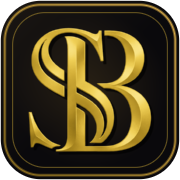
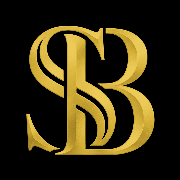
refactor: update branding and PWA assets
Update app logo to legacy gold, adjust branding visuals, and refresh PWA configuration with cache-busting versioning.

diff --git a/App.tsx b/App.tsx
@@ -348,9 +348,9 @@ const fetchUserRole = async (user: FirebaseUser): Promise<'admin' | 'vendor' | '
   return 'client';
 };
 
-const SimchaLogo = ({ className = "h-8 w-8" }: { className?: string; viewBox?: string }) => (
+const SimchaLogo = ({ className = "h-7 w-7" }: { className?: string; viewBox?: string }) => (
   <img
-    src="/sb-logo-transparent-gold.png"
+    src="/sb-logo-old-gold.png"
     alt="Simcha Booking"
     aria-hidden="true"
     className={`simcha-logo-svg block object-contain select-none shrink-0 bg-transparent border-0 shadow-none p-0 ${className}`}
@@ -592,7 +592,7 @@ const AuthSignUpModal: React.FC<AuthSignUpModalProps> = React.memo(({
             className="text-center mb-6 cursor-grab active:cursor-grabbing select-none"
           >
             <div className="flex items-center justify-center mx-auto mb-4">
-              <SimchaLogo className="w-20 h-20 overflow-visible" viewBox="-10 -8 120 110" />
+              <SimchaLogo className="w-14 h-14 overflow-visible" viewBox="-10 -8 120 110" />
             </div>
             <h2 id="auth-signup-title" className="text-2xl sm:text-3xl font-bold font-[Cinzel] text-[#D4AF37] tracking-wider uppercase">
               WELCOME TO SIMCHA SIGN UP
@@ -870,7 +870,7 @@ const AuthSignInModal: React.FC<AuthSignInModalProps> = React.memo(({
             className="text-center mb-6 cursor-grab active:cursor-grabbing select-none"
           >
             <div className="flex items-center justify-center mx-auto mb-4">
-              <SimchaLogo className="w-20 h-20 overflow-visible" viewBox="-10 -8 120 110" />
+              <SimchaLogo className="w-14 h-14 overflow-visible" viewBox="-10 -8 120 110" />
             </div>
             <h2 id="auth-signin-title" className="text-2xl sm:text-3xl font-bold font-[Cinzel] text-[#D4AF37] tracking-wider uppercase">
               WELCOME TO SIMCHA SIGN IN
@@ -4056,7 +4056,7 @@ function App() {
         {/* Centered Welcome Card */}
         <div className="bg-[#111] rounded-3xl p-8 md:p-12 max-w-lg w-full border border-[#D4AF37]/20 shadow-2xl relative z-10 text-center">
           <header className="text-center mb-10">
-            <div className="flex items-center justify-center mx-auto mb-6"><SimchaLogo className="w-20 h-20" /></div>
+            <div className="flex items-center justify-center mx-auto mb-6"><SimchaLogo className="w-14 h-14" /></div>
             <h1 className="text-3xl font-bold font-[Cinzel] text-[#D4AF37] tracking-wider uppercase">WELCOME TO SIMCHA BOOKING</h1>
             <p className="text-[10px] text-zinc-300 uppercase tracking-[0.4em] mt-2">Professional Planning Access</p>
           </header>
@@ -4214,7 +4214,7 @@ function App() {
   if (isInitializing) {
     return (
       <main className="min-h-screen bg-black flex flex-col items-center justify-center" aria-label="Loading Simcha Booking">
-        <SimchaLogo className="w-24 h-24 animate-pulse mb-8" />
+        <SimchaLogo className="w-16 h-16 animate-pulse mb-8" />
         <Loader2 className="w-8 h-8 text-[#D4AF37] animate-spin" />
         <span className="sr-only">Loading application...</span>
       </main>
@@ -4853,8 +4853,8 @@ function App() {
         <div className="max-w-7xl mx-auto px-4 sm:px-6 lg:px-8">
             <div className="flex flex-col md:flex-row justify-between items-center gap-10">
                 <div className="flex flex-col items-center md:items-start gap-4">
-                    <div className="flex items-center gap-3">
-                      <SimchaLogo className="h-10 w-10" /><span className="text-2xl font-bold font-[Cinzel] text-[#D4AF37] tracking-wider leading-tight">Simcha Booking</span>
+                    <div className="flex items-center gap-2.5">
+                      <SimchaLogo className="h-7 w-7 sm:h-8 sm:w-8" /><span className="text-2xl font-bold font-[Cinzel] text-[#D4AF37] tracking-wider leading-tight">Simcha Booking</span>
                     </div>
                     <p className="text-zinc-300 text-sm max-w-xs text-center md:text-left leading-relaxed">Curating exceptional Jewish celebrations with world-class professional partners.</p>
                 </div>
@@ -4944,7 +4944,7 @@ function App() {
                 onClick={() => { setView('marketplace'); setActiveCategory('All'); setIsVendorView(false); }} 
                 aria-label="Simcha Booking Home"
               >
-                  <SimchaLogo className="h-7 w-7 sm:h-8 sm:w-8 group-hover:scale-110 transition-transform" />
+                  <SimchaLogo className="h-7 w-7 sm:h-7 sm:w-7 md:h-8 md:w-8 group-hover:scale-110 transition-transform" />
                   <div className="text-left">
                       <h1 className="simcha-brand-title text-lg sm:text-xl md:text-2xl font-bold text-[#D4AF37] tracking-tight font-[Cinzel] leading-tight md:leading-normal">
                         <span className="block md:inline">Simcha</span><span className="block md:inline md:ml-1.5">Booking</span>

diff --git a/index.html b/index.html
@@ -5,13 +5,13 @@
     <meta charset="UTF-8" />
     <meta name="viewport" content="width=device-width, initial-scale=1.0" />
     <title>Simcha Booking - Plan Your Jewish Event</title>
-    <link id="dynamic-manifest" rel="manifest" href="/manifest.json">
-    <link id="dynamic-favicon" rel="icon" type="image/png" href="/favicon.png">
-    <meta name="theme-color" content="#050505">
+    <link id="dynamic-manifest" rel="manifest" href="/manifest.json?v=3">
+    <link id="dynamic-favicon" rel="icon" type="image/png" href="/favicon.png?v=3">
+    <meta name="theme-color" content="#000000">
     <meta name="apple-mobile-web-app-capable" content="yes">
     <meta name="apple-mobile-web-app-status-bar-style" content="black-translucent">
     <meta name="apple-mobile-web-app-title" content="Simcha Booking">
-    <link id="dynamic-apple-icon" rel="apple-touch-icon" href="/apple-touch-icon.png">
+    <link id="dynamic-apple-icon" rel="apple-touch-icon" href="/apple-touch-icon.png?v=3">
     <link rel="preconnect" href="https://fonts.googleapis.com">
     <link rel="preconnect" href="https://fonts.gstatic.com" crossorigin>
     <link href="https://fonts.googleapis.com/css2?family=Cinzel:wght@400;600;700;900&family=Lato:wght@300;400;700;900&display=swap" rel="stylesheet">
@@ -41,7 +41,7 @@
   <body class="bg-black text-slate-100">
     <div id="root">
       <main class="min-h-screen bg-black flex flex-col items-center justify-center" aria-label="Loading Simcha Booking">
-        <img src="/sb-logo-transparent-gold.png" alt="Simcha Booking" class="simcha-logo-svg w-20 h-20 object-contain select-none bg-transparent border-0 shadow-none mb-8 animate-pulse" />
+        <img src="/sb-logo-old-gold.png" alt="Simcha Booking" class="simcha-logo-svg w-16 h-16 object-contain select-none bg-transparent border-0 shadow-none mb-8 animate-pulse" />
         <svg class="w-8 h-8 text-[#D4AF37] animate-spin" xmlns="http://www.w3.org/2000/svg" width="24" height="24" viewBox="0 0 24 24" fill="none" stroke="#D4AF37" stroke-width="2" stroke-linecap="round" stroke-linejoin="round" aria-hidden="true">
           <path d="M21 12a9 9 0 1 1-6.219-8.56" />
         </svg>
